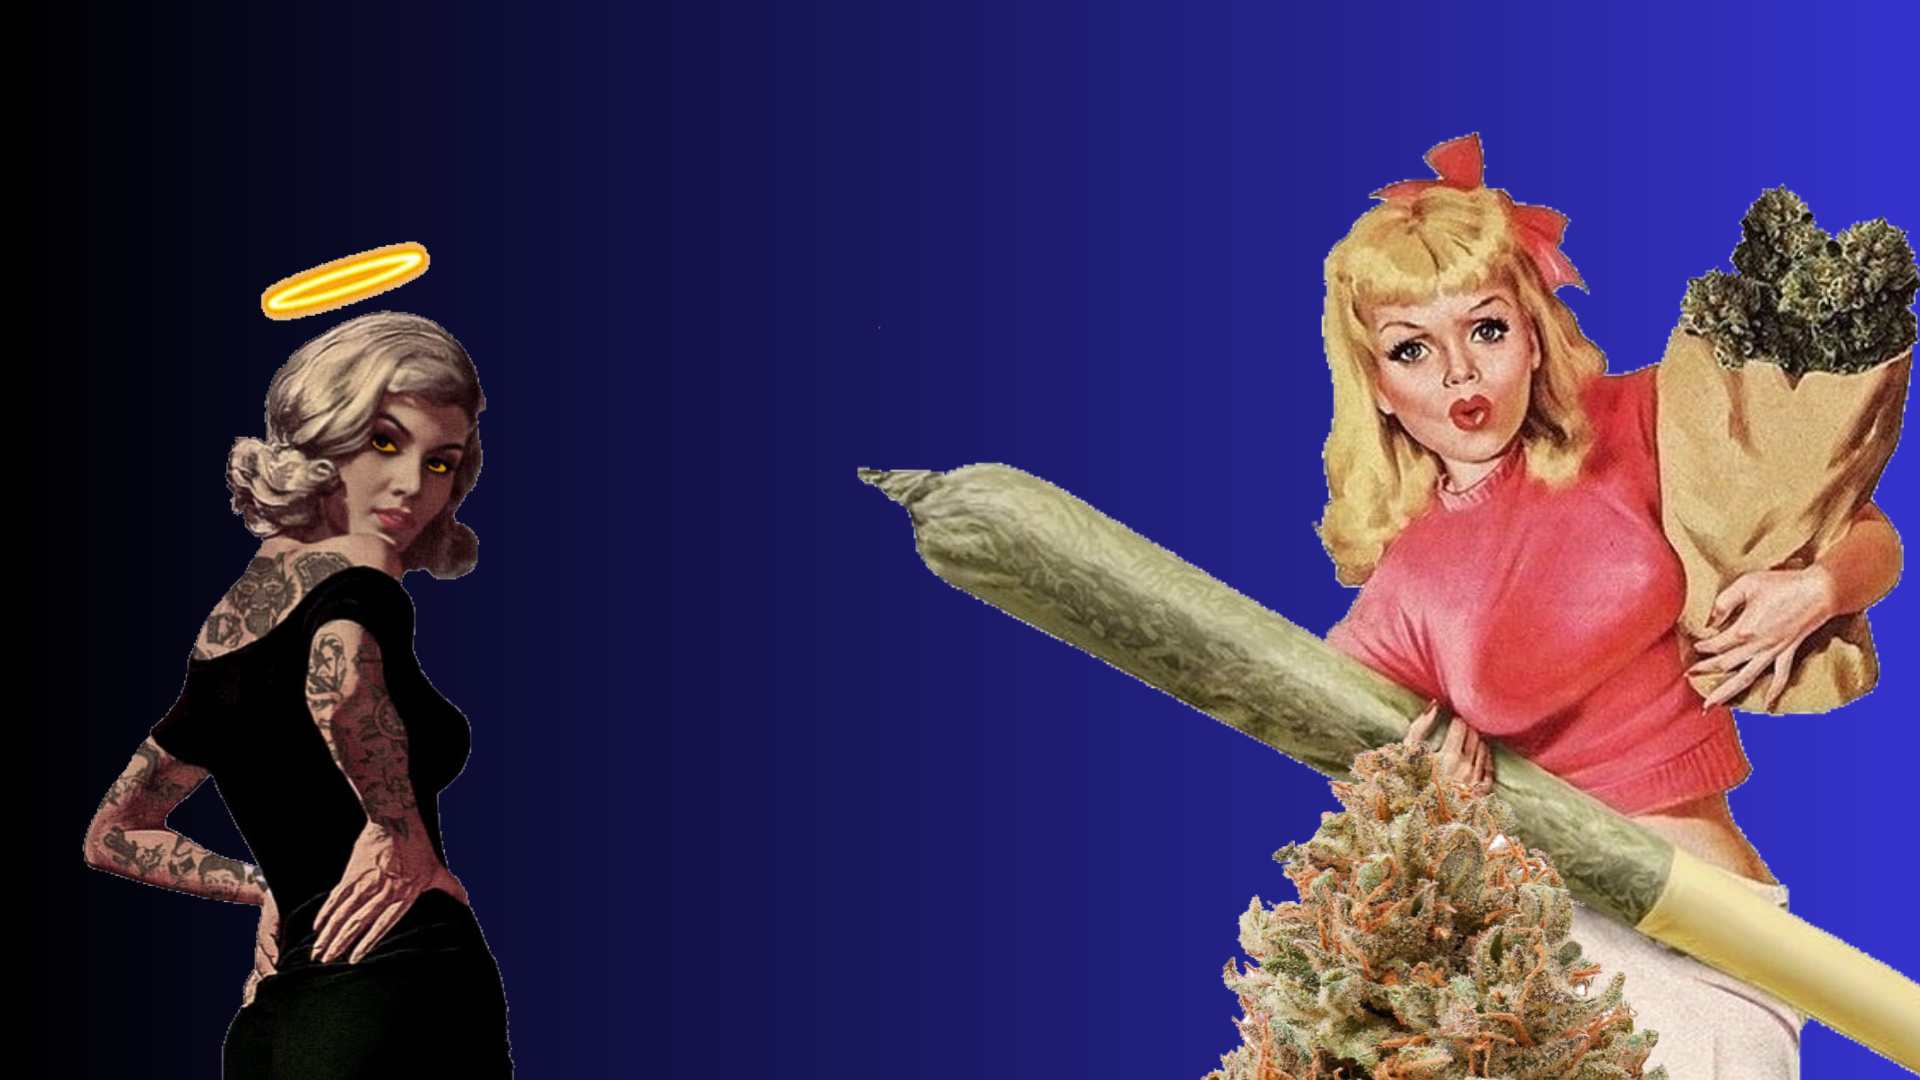
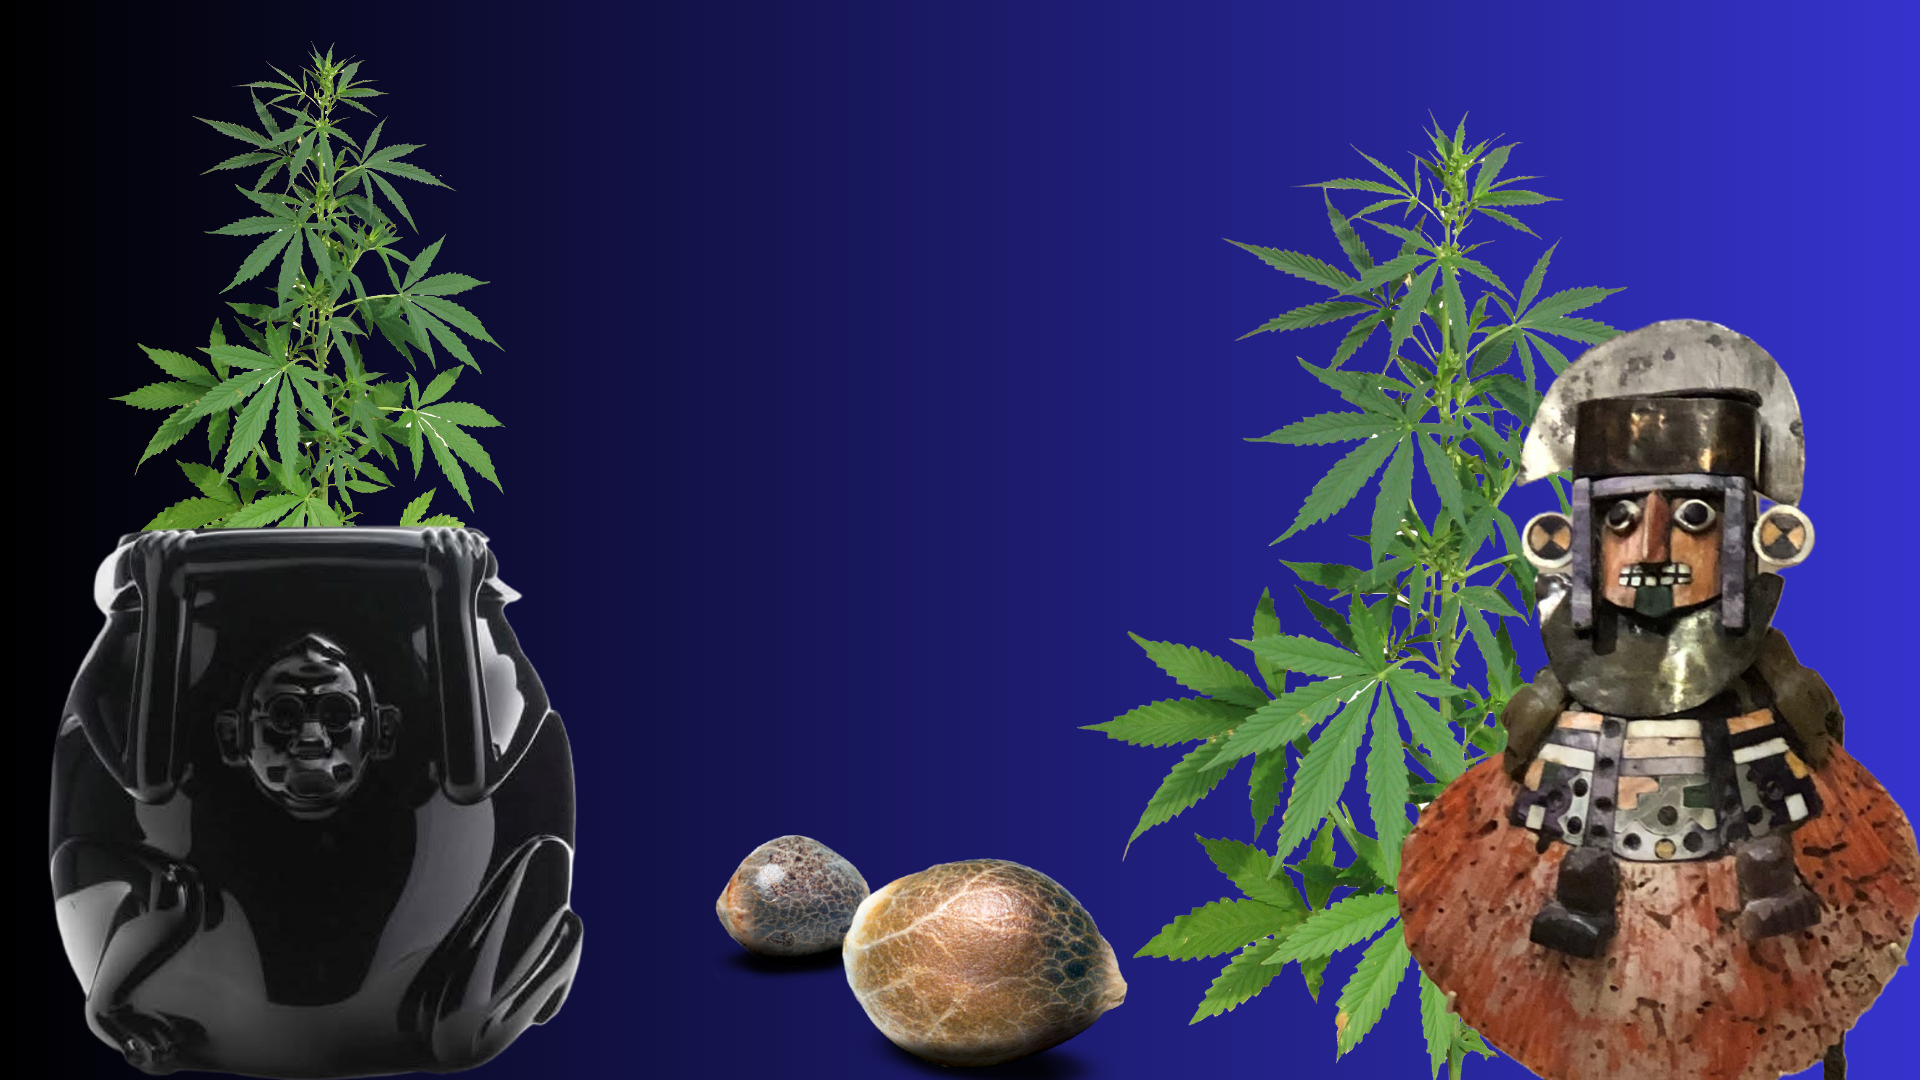
feat: 🔒 add age verification modal with internal views ### Changes Made - feat: 🔒 create `AgeVerificationModal` with cookie-based persistence - feat: ✨ implement internal views for Privacy and Terms within the modal - feat: 🎨 integrate modal globally in `LandingLayout` - feat: 🖼 update desktop asset

diff --git a/src/components/landing/AgeVerificationModal.tsx b/src/components/landing/AgeVerificationModal.tsx
@@ -1,0 +1,267 @@
+"use client"
+
+import { useState, useEffect } from "react"
+import { motion, AnimatePresence } from "framer-motion"
+import Image from "next/image"
+
+type ViewType = "main" | "privacy" | "terms"
+
+export default function AgeVerificationModal() {
+  const [isVisible, setIsVisible] = useState(false)
+  const [acceptedCookies, setAcceptedCookies] = useState(false)
+  const [isMounted, setIsMounted] = useState(false)
+  const [view, setView] = useState<ViewType>("main")
+
+  useEffect(() => {
+    setIsMounted(true)
+    const isVerified = document.cookie.split("; ").find((row) => row.startsWith("age_verified="))
+    if (!isVerified) {
+      setIsVisible(true)
+      document.body.style.overflow = "hidden"
+    }
+  }, [])
+
+  const handleVerify = () => {
+    if (!acceptedCookies) return
+
+    const date = new Date()
+    date.setTime(date.getTime() + 30 * 24 * 60 * 60 * 1000)
+    document.cookie = `age_verified=true; expires=${date.toUTCString()}; path=/`
+
+    setIsVisible(false)
+    document.body.style.overflow = "auto"
+  }
+
+  const handleDecline = () => {
+    window.location.href = "https://www.google.com"
+  }
+
+  if (!isMounted || !isVisible) return null
+
+  return (
+    <AnimatePresence mode="wait">
+      {isVisible && (
+        <motion.div
+          initial={{ opacity: 0 }}
+          animate={{ opacity: 1 }}
+          exit={{ opacity: 0 }}
+          className="fixed inset-0 z-[9999] flex items-center justify-center bg-slate-900/95 backdrop-blur-md p-4"
+        >
+          <motion.div
+            key={view}
+            initial={{ opacity: 0, x: view === "main" ? 0 : 20, scale: 0.95 }}
+            animate={{ opacity: 1, x: 0, scale: 1 }}
+            exit={{ opacity: 0, x: -20, scale: 0.95 }}
+            transition={{ duration: 0.3 }}
+            className="bg-white rounded-3xl shadow-2xl max-w-lg w-full max-h-[90vh] overflow-hidden flex flex-col border border-slate-200 relative"
+          >
+            {/* Header Accent */}
+            <div className="absolute top-0 left-0 right-0 h-1.5 bg-gradient-to-r from-emerald-500 via-teal-500 to-emerald-600 z-20" />
+
+            {view === "main" ? (
+              <MainView
+                acceptedCookies={acceptedCookies}
+                setAcceptedCookies={setAcceptedCookies}
+                onVerify={handleVerify}
+                onDecline={handleDecline}
+                onSwitchView={setView}
+              />
+            ) : view === "privacy" ? (
+              <PrivacyView onBack={() => setView("main")} />
+            ) : (
+              <TermsView onBack={() => setView("main")} />
+            )}
+          </motion.div>
+        </motion.div>
+      )}
+    </AnimatePresence>
+  )
+}
+
+function MainView({
+  acceptedCookies,
+  setAcceptedCookies,
+  onVerify,
+  onDecline,
+  onSwitchView
+}: {
+  acceptedCookies: boolean
+  setAcceptedCookies: (val: boolean) => void
+  onVerify: () => void
+  onDecline: () => void
+  onSwitchView: (view: ViewType) => void
+}) {
+  return (
+    <div className="p-6 md:p-8 flex flex-col items-center text-center overflow-y-auto">
+      {/* Logo */}
+      <div className="mb-8 flex justify-center">
+        <div className="relative w-24 h-24">
+          <Image
+            src="/imgs/quetzal.png"
+            alt="Casa Quetzal Logo"
+            fill
+            className="object-contain"
+            priority
+          />
+        </div>
+      </div>
+
+      <h2 className="text-3xl font-bold text-slate-800 mb-2 uppercase tracking-tight">
+        Verificación de Edad
+      </h2>
+      <p className="text-slate-500 mb-8 font-medium">
+        ¿Eres mayor de 18 años?
+      </p>
+
+      <div className="w-full space-y-6">
+        {/* Checkbox */}
+        <label className="flex items-start gap-3 cursor-pointer group text-left">
+          <div className="relative flex items-center mt-1">
+            <input
+              type="checkbox"
+              className="peer appearance-none w-5 h-5 border-2 border-slate-300 rounded-md checked:bg-emerald-500 checked:border-emerald-500 transition-all cursor-pointer"
+              checked={acceptedCookies}
+              onChange={(e) => setAcceptedCookies(e.target.checked)}
+            />
+            <svg
+              className="absolute w-3.5 h-3.5 text-white opacity-0 peer-checked:opacity-100 transition-opacity pointer-events-none left-0.5"
+              fill="none"
+              stroke="currentColor"
+              viewBox="0 0 24 24"
+            >
+              <path strokeLinecap="round" strokeLinejoin="round" strokeWidth="3" d="M5 13l4 4L19 7" />
+            </svg>
+          </div>
+          <span className="text-sm text-slate-600 leading-tight group-hover:text-slate-800 transition-colors">
+            Acepto los ajustes de cookies y la{" "}
+            <button
+              type="button"
+              onClick={() => onSwitchView("privacy")}
+              className="text-emerald-600 font-bold hover:underline"
+            >
+              política de privacidad
+            </button>
+          </span>
+        </label>
+
+        {/* Buttons */}
+        <div className="flex flex-col gap-3">
+          <button
+            onClick={onVerify}
+            disabled={!acceptedCookies}
+            className={`w-full py-4 rounded-xl font-bold text-lg transition-all duration-300 shadow-lg ${acceptedCookies
+              ? "bg-gradient-to-r from-emerald-500 to-teal-600 text-white hover:shadow-emerald-500/30 hover:scale-[1.02] active:scale-95"
+              : "bg-slate-100 text-slate-400 cursor-not-allowed"
+              }`}
+          >
+            Sí, continuar
+          </button>
+          <button
+            onClick={onDecline}
+            className="w-full py-3 text-slate-500 font-semibold hover:text-slate-800 transition-colors"
+          >
+            No, volver
+          </button>
+        </div>
+      </div>
+
+      {/* Legal Footer */}
+      <div className="mt-3 pt-6 border-t border-slate-100 w-full">
+        <p className="text-[10px] text-slate-400 leading-relaxed uppercase tracking-widest">
+          Este sitio contiene información sobre productos restringidos. Al ingresar, confirmas que cumples con los requisitos legales de tu jurisdicción.
+        </p>
+        <button
+          type="button"
+          onClick={() => onSwitchView("terms")}
+          className="text-[10px] text-emerald-600 font-bold hover:underline mt-2 inline-block uppercase tracking-widest"
+        >
+          Ver Términos y Condiciones
+        </button>
+      </div>
+    </div>
+  )
+}
+
+function PrivacyView({ onBack }: { onBack: () => void }) {
+  return (
+    <div className="flex flex-col h-full overflow-hidden">
+      <div className="p-6 border-b border-slate-100 flex items-center justify-between bg-white sticky top-0 z-10">
+        <h3 className="font-bold text-slate-800 uppercase tracking-tight text-sm">Política de Privacidad</h3>
+        <button
+          onClick={onBack}
+          className="text-emerald-600 font-bold text-xs hover:text-emerald-700 flex items-center gap-1 group"
+        >
+          <svg className="w-4 h-4 transform group-hover:-translate-x-1 transition-transform" fill="none" stroke="currentColor" viewBox="0 0 24 24">
+            <path strokeLinecap="round" strokeLinejoin="round" strokeWidth={2} d="M15 19l-7-7 7-7" />
+          </svg>
+          Volver
+        </button>
+      </div>
+      <div className="p-8 overflow-y-auto text-sm text-slate-600 space-y-6">
+        <div>
+          <h4 className="font-bold text-slate-800 mb-2">1. Identidad y Responsable</h4>
+          <p>Casa Quetzal Cannabis Seeds®, Sociedad de Acciones Simplificada de Capital Variable, responsable del tratamiento conforme a la LFPDPPP.</p>
+        </div>
+        <div>
+          <h4 className="font-bold text-slate-800 mb-2">2. Datos Recabados</h4>
+          <p>Identificación, contacto, fiscales, comerciales, técnicos y de trazabilidad productiva.</p>
+        </div>
+        <div>
+          <h4 className="font-bold text-slate-800 mb-2">3. Finalidades</h4>
+          <p>Gestión de membresías, comercialización, cumplimiento legal y sistemas de trazabilidad.</p>
+        </div>
+        <div>
+          <h4 className="font-bold text-slate-800 mb-2">4. Transferencia</h4>
+          <p>A autoridades competentes y socios operativos bajo esquemas de confidencialidad.</p>
+        </div>
+        <div>
+          <h4 className="font-bold text-slate-800 mb-2">5. Derechos ARCO</h4>
+          <p>Puedes ejercer tus derechos de acceso, rectificación, cancelación u oposición mediante solicitud directa.</p>
+        </div>
+        <p className="text-[10px] text-slate-400 italic pt-4">Consulta la política completa una vez verifiques tu edad.</p>
+      </div>
+    </div>
+  )
+}
+
+function TermsView({ onBack }: { onBack: () => void }) {
+  return (
+    <div className="flex flex-col h-full overflow-hidden">
+      <div className="p-6 border-b border-slate-100 flex items-center justify-between bg-white sticky top-0 z-10">
+        <h3 className="font-bold text-slate-800 uppercase tracking-tight text-sm">Términos y Condiciones</h3>
+        <button
+          onClick={onBack}
+          className="text-emerald-600 font-bold text-xs hover:text-emerald-700 flex items-center gap-1 group"
+        >
+          <svg className="w-4 h-4 transform group-hover:-translate-x-1 transition-transform" fill="none" stroke="currentColor" viewBox="0 0 24 24">
+            <path strokeLinecap="round" strokeLinejoin="round" strokeWidth={2} d="M15 19l-7-7 7-7" />
+          </svg>
+          Volver
+        </button>
+      </div>
+      <div className="p-8 overflow-y-auto text-sm text-slate-600 space-y-6">
+        <div>
+          <h4 className="font-bold text-slate-800 mb-2">1. Naturaleza</h4>
+          <p>Mecanismo de acceso restringido a productos y beneficios exclusivos bajo esquema privado.</p>
+        </div>
+        <div>
+          <h4 className="font-bold text-slate-800 mb-2">2. Aceptación</h4>
+          <p>El uso implica aceptación expresa de términos, políticas internas y leyes aplicables.</p>
+        </div>
+        <div>
+          <h4 className="font-bold text-slate-800 mb-2">3. Obligaciones</h4>
+          <p>Información veraz, uso lícito, respeto a la marca y cumplimiento de trazabilidad.</p>
+        </div>
+        <div>
+          <h4 className="font-bold text-slate-800 mb-2">4. Revocación</h4>
+          <p>Suspensión por tráfico de drogas sintéticas, falsedad de información o actos ilícitos.</p>
+        </div>
+        <div>
+          <h4 className="font-bold text-slate-800 mb-2">5. Jurisdicción</h4>
+          <p>Sujeto a las leyes de los Estados Unidos Mexicanos y tribunales competentes.</p>
+        </div>
+        <p className="text-[10px] text-slate-400 italic pt-4">Consulta los términos completos una vez verifiques tu edad.</p>
+      </div>
+    </div>
+  )
+}

diff --git a/src/app/(landing)/layout.tsx b/src/app/(landing)/layout.tsx
@@ -1,6 +1,7 @@
 import { TopMenu } from "@/components/landing/TopMenu"
 import { Footer } from "@/components/landing/Footer"
 import FloatingWhatsAppButton from "@/components/landing/FloatingWhatsAppButton"
+import AgeVerificationModal from "@/components/landing/AgeVerificationModal"
 
 export default async function LandingLayout({
   children,
@@ -15,6 +16,7 @@ export default async function LandingLayout({
         {children}
         <Footer />
         <FloatingWhatsAppButton />
+        <AgeVerificationModal />
       </main>
     </>
   )
